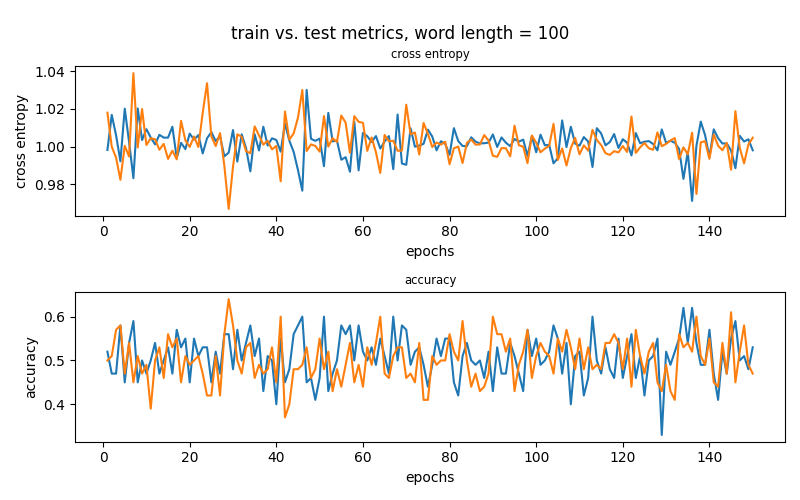
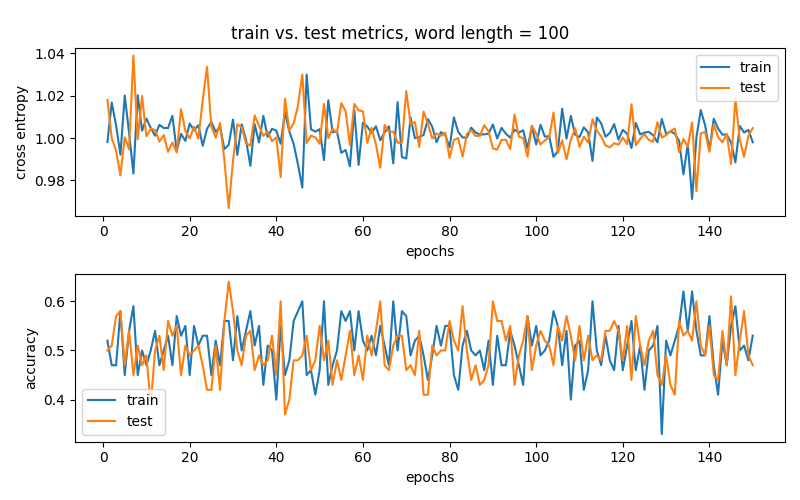
update plots with legend

diff --git a/src/plot_results.py b/src/plot_results.py
@@ -26,17 +26,20 @@ for filename in os.listdir(results_dir):
         ax1, ax2 = fig.subplots(2,1)
         # plot cross entropy development on the first
         epochs = [i+1 for i in range(0,len(all_train_length))]
-        ax1.plot(epochs,all_train_ce)
-        ax1.plot(epochs,all_test_ce)
-        ax1.set_title('cross entropy',  fontsize='small')
+        ax1.plot(epochs,all_train_ce, label='train')
+        ax1.plot(epochs,all_test_ce, label='test')
+        #ax1.set_title('cross entropy',  fontsize='small')
         ax1.set_xlabel('epochs')
         ax1.set_ylabel('cross entropy')
+        ax1.legend()
         # plot accuracy development on the second
-        ax2.plot(epochs,all_train_acc)
-        ax2.plot(epochs,all_test_acc)
-        ax2.set_title('accuracy',  fontsize='small')
+        ax2.plot(epochs,all_train_acc, label='train')
+        ax2.plot(epochs,all_test_acc, label='test')
+        #ax2.set_title('accuracy',  fontsize='small')
         ax2.set_xlabel('epochs')
         ax2.set_ylabel('accuracy')
+        ax2.legend()
+
         plt.tight_layout()
         plt.savefig(save_name)
         #plt.show()
